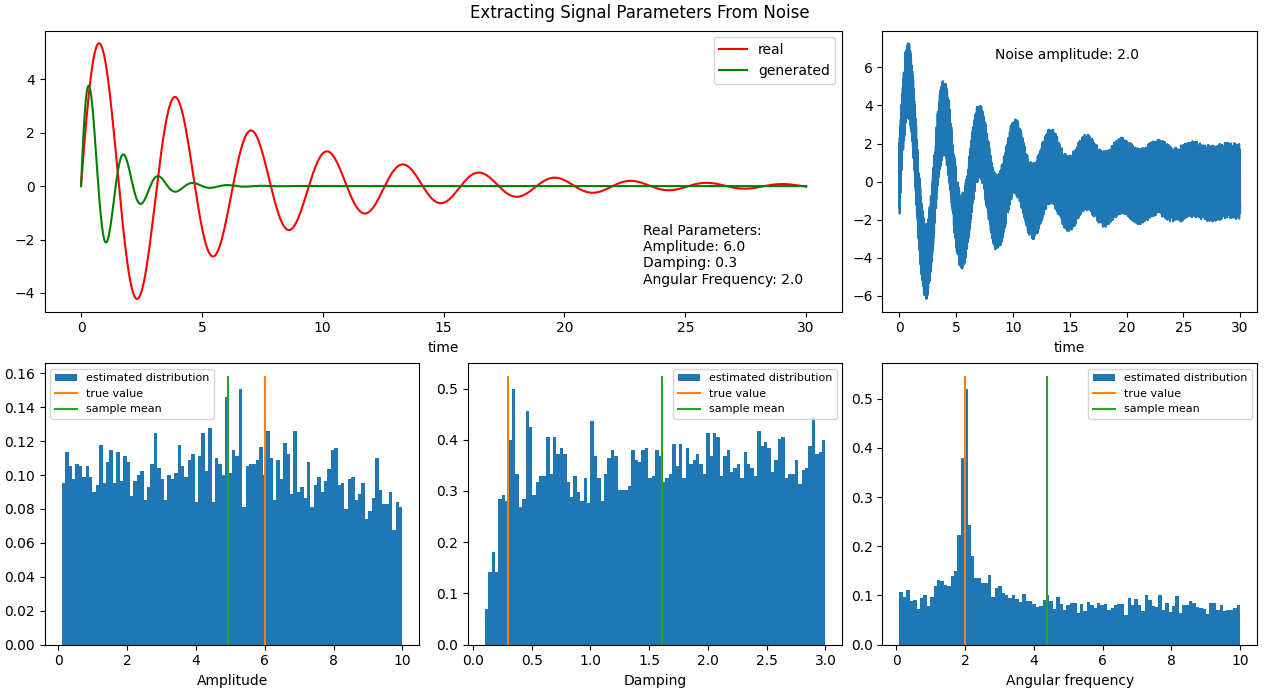
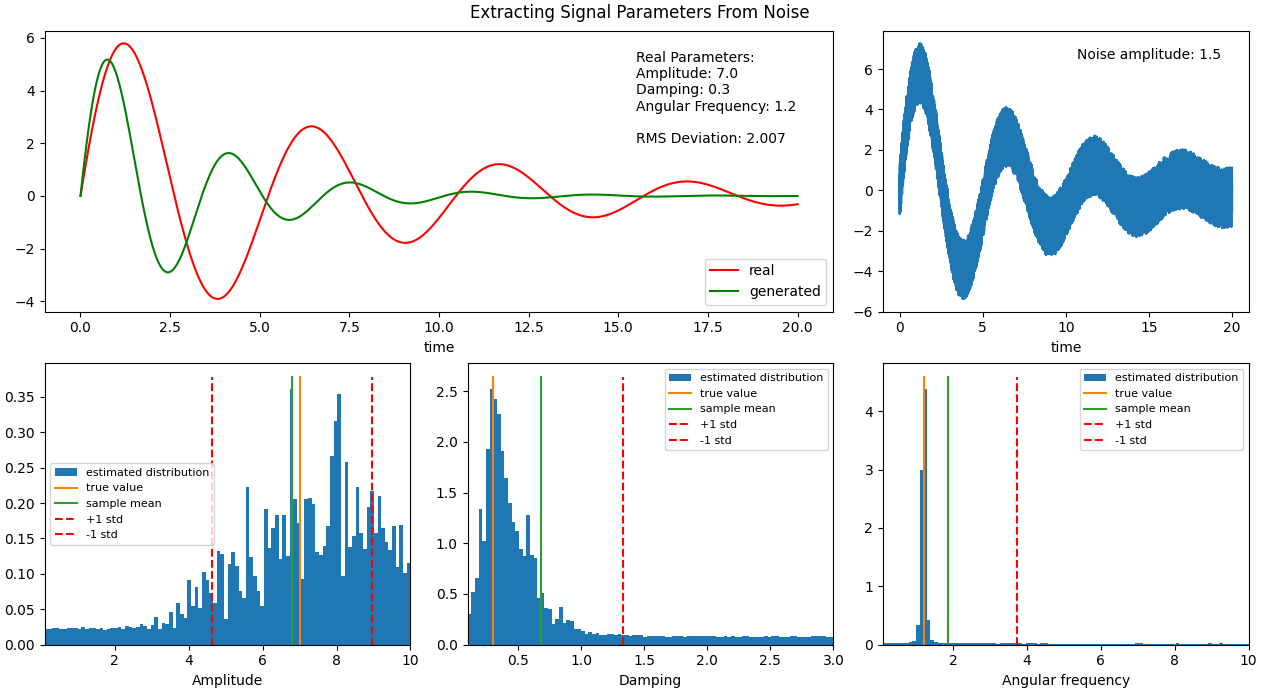
Included RMS Measured, STDs, and plot of Accuracy by Noise

diff --git a/MCMC.py b/MCMC.py
@@ -1,11 +1,12 @@
 import numpy as np
-import functools
+from wave_func import mcmc_wave
 
 class MCMCModel:
     def __init__(self, function, param_ranges: np.ndarray, function_kwargs: dict = None):
         self.function = function
         self.param_ranges = param_ranges
         self.function_kwargs = function_kwargs
+        self.rng = np.random.default_rng(seed=824)
     
     def generate_noise(self, data, noise_amp=1.0):
         """
@@ -18,15 +19,19 @@ class MCMCModel:
         Returns:
         - numpy array of noisy data
         """
-        noise = 2 * noise_amp * np.random.random(size=len(data)) - noise_amp
+        noise = 2 * noise_amp * self.rng.random(size=len(data)) - noise_amp
         return data + noise
 
     def compute_rms(self, observed, predicted):
         diff = observed - predicted
         return np.sqrt(np.mean(diff**2))
 
-    def guess_params(self):
-        return np.random.uniform(low=self.param_ranges[:,0], high=self.param_ranges[:,1], size=len(self.param_ranges))
+    def guess_params(self, distribution=None):
+        if distribution == "norm":
+            mu = (self.param_ranges[:,0] + self.param_ranges[:,1]) / 2
+            sigma = mu/10
+            return self.rng.normal(mu, sigma, size=len(self.param_ranges))
+        return self.rng.uniform(low=self.param_ranges[:,0], high=self.param_ranges[:,1], size=len(self.param_ranges))
         
     def likelihood(self, noisy_vals, params, tol=1e-9):
         trial_vals = eval(self.function.__name__)(*params, **self.function_kwargs)
@@ -41,7 +46,7 @@ class MCMCModel:
 
         current_likelihood = self.likelihood(noisy_vals, current_params)
 
-        samples = np.zeros(shape=(num_iterations, len(self.param_ranges)))
+        samples = np.empty(shape=(num_iterations, len(self.param_ranges)))
         samples[0] = current_params
         
         for i in range(1, num_iterations):
@@ -57,119 +62,37 @@ class MCMCModel:
 
         return samples
     
-    def thin_samples(self, samples, thin_ratio: float = 0.2, cutoff_start: int = 0):
-        cutoff = samples[cutoff_start:]
-        thinned = np.zeros_like(cutoff)
-        i = 0
-        mod = int(1/thin_ratio)
-        for j in range(cutoff.size):
-            if j % mod == 0:
-                thinned[i] = cutoff[j]
-                i += 1
+    def thin_samples(self, samples, thin_percentage: float = 0.25, cutoff_percentage: float = 0.2):
+        if thin_percentage == 0:
+            return np.array([])
+        mod = int(1 / thin_percentage)
+        start = int(samples.size * cutoff_percentage)
+        thinned = np.zeros_like(samples)
+        j = 0
+        for i in range(start, samples.size):
+            if i % mod == 0:
+                thinned[j] = samples[i]
+                j += 1
         return np.trim_zeros(thinned)
     
-if __name__ == "__main__":
-    import matplotlib.pyplot as plt
-    from wave_func import mcmc_wave
-    REAL_AMPLITUDE = 6.0
-    REAL_DAMPING = 0.3
-    REAL_OMEGA = 2.0
-    REAL_PHASE = 0.0
-    NOISE_AMPLITUDE = 4.0
-    NUM_ITERATIONS = 100000
-    DATA_STEPS = 10000
-    THIN_RATIO = 0.1
-    
-    time, real_wave = mcmc_wave(REAL_AMPLITUDE, REAL_DAMPING, REAL_OMEGA, steps=DATA_STEPS, return_time=True)
-    
-    ranges = np.array(
-        [
-            [0.1, 10.0],    # amplitude (A) range
-            [0.1, 3.0],     # damping (b) range
-            [0.1, 10.0],    # angular frequency (omega) range
-            # [0.0, 2*np.pi]  # phase constant range
-        ]
-    )
-    kwargs = {"seconds": 30.0, "steps": DATA_STEPS, "return_time": False}
-
-    model = MCMCModel(function=mcmc_wave, param_ranges=ranges, function_kwargs=kwargs)
-    samples = model.metropolis_hastings(real_wave, NUM_ITERATIONS, NOISE_AMPLITUDE)
-    noise = model.generate_noise(real_wave, noise_amp=NOISE_AMPLITUDE)
-
-    for i, sample in enumerate(samples):
-        current_params = sample
-        acceptance_status = "Accepted"
-        
-        if i > 0:
-            previous_params = samples[i - 1]
+    def print_sample_statuses(self, samples):
+        for i, sample in enumerate(samples):
+            current_params = sample
+            acceptance_status = "Accepted"
             
-            if np.all(current_params == previous_params):
-                acceptance_status = "Rejected (same as previous)"
+            if i > 0:
+                previous_params = samples[i - 1]
+                
+                if np.all(current_params == previous_params):
+                    acceptance_status = "Rejected (same as previous)"
 
-        print(f"Trial {i+1}: ({acceptance_status})\n{current_params}")
+            print(f"Trial {i+1}: ({acceptance_status})\n{current_params}")
     
-    amplitude_samples = samples[:, 0]
-    damping_samples = samples[:, 1]
-    angular_freq_samples = samples[:, 2]
-    # phase_samples = samples[:, 3]
-    
-    amplitude_samples = model.thin_samples(amplitude_samples, thin_ratio=THIN_RATIO, cutoff_start=int(NUM_ITERATIONS/10))
-    damping_samples = model.thin_samples(damping_samples, thin_ratio=THIN_RATIO, cutoff_start=int(NUM_ITERATIONS/10))
-    angular_freq_samples = model.thin_samples(angular_freq_samples, thin_ratio=THIN_RATIO, cutoff_start=int(NUM_ITERATIONS/10))
-    
-    mean_amplitude = np.mean(amplitude_samples)
-    mean_damping = np.mean(damping_samples)
-    mean_omega = np.mean(angular_freq_samples)
-    
-    result_wave = mcmc_wave(mean_amplitude, mean_damping, mean_omega, steps=DATA_STEPS)
 
-    figure = plt.figure(figsize=(13, 7), layout="constrained")
-    figure.suptitle("Extracting Signal Parameters From Noise")
-    axes = figure.subplot_mosaic(
-    """
-    WWN.
-    ABF.
-    """,
-    width_ratios=[1, 1, 1, 0.05]
-    )
+if __name__ == "__main__":
+    model = MCMCModel(function=mcmc_wave, param_ranges=np.arange(3), function_kwargs={"steps":5, "seconds": 12})
+    print(model.likelihood(np.arange(5), [400, 400, 400]))
     
-    axes["A"].hist(amplitude_samples, bins=100, density=True, label="estimated distribution")
-    axes["A"].set_xlabel("Amplitude")
-    ylim = axes["A"].get_ylim()
-    axes["A"].plot([REAL_AMPLITUDE, REAL_AMPLITUDE], [0.0, ylim[1]], label="true value")
-    axes["A"].plot([mean_amplitude, mean_amplitude], [0.0, ylim[1]], label="sample mean")
-    axes["A"].legend(prop={"size": 8})
-    
-    axes["B"].hist(damping_samples, bins=100, density=True, label="estimated distribution")
-    axes["B"].set_xlabel("Damping")
-    ylim = axes["B"].get_ylim()
-    axes["B"].plot([REAL_DAMPING, REAL_DAMPING], [0.0, ylim[1]], label = "true value")
-    axes["B"].plot([mean_damping, mean_damping], [0.0, ylim[1]], label="sample mean")
-    axes["B"].legend(prop={"size": 8})
-    
-    axes["F"].hist(angular_freq_samples, bins=100, density=True, label="estimated distribution")
-    axes["F"].set_xlabel("Angular frequency")
-    ylim = axes["F"].get_ylim()
-    axes["F"].plot([REAL_OMEGA, REAL_OMEGA], [0.0, ylim[1]], label = "true value")
-    axes["F"].plot([mean_omega, mean_omega], [0.0, ylim[1]], label="sample mean")
-    axes["F"].legend(prop={"size": 8})
-    
-    # axes["P"].hist(phase_samples, bins=100, density=True, label="estimated distribution")
-    # axes["P"].set_xlabel("phase constant")
-    # axes["P"].plot([REAL_PHASE, REAL_PHASE], [0.0, 1.0], label = "true value")
-    # axes["P"].legend()
-        
-    axes["W"].plot(time, real_wave, "r", label="real")
-    axes["W"].set_xlabel("time")
-    axes["W"].annotate(f"Real Parameters:\nAmplitude: {REAL_AMPLITUDE}\nDamping: {REAL_DAMPING}\nAngular Frequency: {REAL_OMEGA}", xy=(0.75, 0.1), xycoords="axes fraction")
-    axes["W"].plot(time, result_wave, "g", label="generated")
-    axes["W"].legend()
-    
-    axes["N"].plot(time, noise)
-    axes["N"].set_xlabel("time")
-    axes["N"].annotate(f"Noise amplitude: {NOISE_AMPLITUDE}", xy=(0.3, 0.9), xycoords="axes fraction")
-
-    plt.show()
     
     
     

diff --git a/main.py b/main.py
@@ -1,0 +1,102 @@
+import matplotlib.pyplot as plt
+import numpy as np
+from MCMC import MCMCModel
+from wave_func import mcmc_wave
+
+REAL_AMPLITUDE = 7.0
+REAL_DAMPING = 0.3
+REAL_ANGULAR_FREQ = 1.2
+NOISE_AMPLITUDE = 1.5
+NUM_ITERATIONS = 1000000
+DATA_STEPS = 10000
+TIMESPAN = 20
+THIN_PERCENTAGE = 0.5 # between 0 and 0.5. (0.5 would use half the returned samples, 0 would use none of them, above 0.5 would use all of them)
+CUTOFF_START = 0.5 # percentage of the samples from the beginning that will be skipped
+
+time, real_wave = mcmc_wave(REAL_AMPLITUDE, REAL_DAMPING, REAL_ANGULAR_FREQ, steps=DATA_STEPS, seconds=TIMESPAN, return_time=True)
+
+ranges = np.array(
+    [
+        [0.1, 10.0],    # amplitude (A) range
+        [0.1, 3.0],     # damping (b) range
+        [0.1, 10.0],    # angular frequency (omega) range
+    ]
+)
+kwargs = {"seconds": TIMESPAN, "steps": DATA_STEPS, "return_time": False}
+
+model = MCMCModel(function=mcmc_wave, param_ranges=ranges, function_kwargs=kwargs)
+samples = model.metropolis_hastings(real_wave, NUM_ITERATIONS, NOISE_AMPLITUDE)
+noise = model.generate_noise(real_wave, noise_amp=NOISE_AMPLITUDE)
+
+#model.print_sample_statuses(samples)
+
+amplitude_samples = samples[:, 0]
+damping_samples = samples[:, 1]
+angular_freq_samples = samples[:, 2]
+
+amplitude_samples = model.thin_samples(amplitude_samples, thin_percentage=THIN_PERCENTAGE, cutoff_percentage=CUTOFF_START)
+damping_samples = model.thin_samples(damping_samples, thin_percentage=THIN_PERCENTAGE, cutoff_percentage=CUTOFF_START)
+angular_freq_samples = model.thin_samples(angular_freq_samples, thin_percentage=THIN_PERCENTAGE, cutoff_percentage=CUTOFF_START)
+
+mean_amplitude = np.mean(amplitude_samples)
+mean_damping = np.mean(damping_samples)
+mean_angular_freq = np.mean(angular_freq_samples)
+
+std_amplitude = np.std(amplitude_samples)
+std_damping = np.std(damping_samples)
+std_angular_freq = np.std(angular_freq_samples)
+
+result_wave = mcmc_wave(mean_amplitude, mean_damping, mean_angular_freq, steps=DATA_STEPS, seconds=TIMESPAN)
+figure = plt.figure(figsize=(13, 7), layout="constrained")
+figure.suptitle("Extracting Signal Parameters From Noise")
+axes = figure.subplot_mosaic(
+"""
+WWN.
+ABF.
+""",
+width_ratios=[1, 1, 1, 0.05]
+)
+
+axes["A"].hist(amplitude_samples, bins=100, density=True, label="estimated distribution")
+axes["A"].set_xlabel("Amplitude")
+ylim = axes["A"].get_ylim()
+axes["A"].plot([REAL_AMPLITUDE, REAL_AMPLITUDE], [0.0, ylim[1]], label="true value")
+axes["A"].plot([mean_amplitude, mean_amplitude], [0.0, ylim[1]], label="sample mean")
+axes["A"].plot([mean_amplitude+std_amplitude, mean_amplitude+std_amplitude], [0.0, ylim[1]], "r--", label="+1 std")
+axes["A"].plot([mean_amplitude-std_amplitude, mean_amplitude-std_amplitude], [0.0, ylim[1]], "r--", label="-1 std")
+axes["A"].legend(prop={"size": 8})
+axes["A"].set_xlim(left=ranges[0, 0], right=ranges[0, 1])
+
+
+axes["B"].hist(damping_samples, bins=100, density=True, label="estimated distribution")
+axes["B"].set_xlabel("Damping")
+ylim = axes["B"].get_ylim()
+axes["B"].plot([REAL_DAMPING, REAL_DAMPING], [0.0, ylim[1]], label = "true value")
+axes["B"].plot([mean_damping, mean_damping], [0.0, ylim[1]], label="sample mean")
+axes["B"].plot([mean_damping+std_damping, mean_damping+std_damping], [0.0, ylim[1]], "r--", label="+1 std")
+axes["B"].plot([mean_damping-std_damping, mean_damping-std_damping], [0.0, ylim[1]], "r--", label="-1 std")
+axes["B"].legend(prop={"size": 8})
+axes["B"].set_xlim(left=ranges[1, 0], right=ranges[1, 1])
+
+axes["F"].hist(angular_freq_samples, bins=100, density=True, label="estimated distribution")
+axes["F"].set_xlabel("Angular frequency")
+ylim = axes["F"].get_ylim()
+axes["F"].plot([REAL_ANGULAR_FREQ, REAL_ANGULAR_FREQ], [0.0, ylim[1]], label = "true value")
+axes["F"].plot([mean_angular_freq, mean_angular_freq], [0.0, ylim[1]], label="sample mean")
+axes["F"].plot([mean_angular_freq+std_angular_freq, mean_angular_freq+std_angular_freq], [0.0, ylim[1]], "r--", label="+1 std")
+axes["F"].plot([mean_angular_freq-std_angular_freq, mean_angular_freq-std_angular_freq], [0.0, ylim[1]], "r--", label="-1 std")
+axes["F"].legend(prop={"size": 8})
+axes["F"].set_xlim(left=ranges[2, 0], right=ranges[2, 1])
+    
+axes["W"].plot(time, real_wave, "r", label="real")
+axes["W"].set_xlabel("time")
+rms_deviation = model.compute_rms(real_wave, result_wave)
+axes["W"].annotate(f"Real Parameters:\nAmplitude: {REAL_AMPLITUDE}\nDamping: {REAL_DAMPING}\nAngular Frequency: {REAL_ANGULAR_FREQ}\n\nRMS Deviation: {rms_deviation:.3f}", xy=(0.75, 0.6), xycoords="axes fraction")
+axes["W"].plot(time, result_wave, "g", label="generated")
+axes["W"].legend()
+
+axes["N"].plot(time, noise)
+axes["N"].set_xlabel("time")
+axes["N"].annotate(f"Noise amplitude: {NOISE_AMPLITUDE}", xy=(0.53, 0.9), xycoords="axes fraction")
+
+plt.show()

diff --git a/accuracy.py b/accuracy.py
@@ -1,0 +1,52 @@
+import matplotlib.pyplot as plt
+import numpy as np
+from MCMC import MCMCModel
+from wave_func import mcmc_wave
+
+def run_trial(model, real_amp, real_damp, real_angf, steps, timespan, thin_percentage, cutoff, num_iterations, noise_amplitude):
+    # use given params to make a real wave
+    real_wave = mcmc_wave(real_amp, real_damp, real_angf, seconds=timespan, steps=steps)
+    # run metropolis hastings for the given number of iterations and given noise
+    samples = model.metropolis_hastings(data=real_wave, num_iterations=num_iterations, noise_amplitude=noise_amplitude)
+    # get the mean of the samples returned for each parameter, create the wave generated from them
+    mean_amplitude = np.mean(model.thin_samples(samples[:,0], thin_percentage, cutoff))
+    mean_damping = np.mean(model.thin_samples(samples[:,1], thin_percentage, cutoff))
+    mean_angular_freq = np.mean(model.thin_samples(samples[:,2], thin_percentage, cutoff))
+    generated_wave = mcmc_wave(mean_amplitude, mean_damping, mean_angular_freq, seconds=timespan, steps=steps)
+    # find the rms between the real and generated waves
+    rms = model.compute_rms(observed=real_wave, predicted=generated_wave)
+    return rms
+
+REAL_AMPLITUDE = 7.0
+REAL_DAMPING = 0.3
+REAL_ANGULAR_FREQ = 1.2
+NOISE_AMPLITUDE = np.linspace(0.0, 7.5, 75)
+NUM_ITERATIONS = 10000
+DATA_STEPS = 10000
+TIMESPAN = 20
+THIN_PERCENTAGE = 0.5 # between 0 and 0.5. (0.5 would use half the returned samples, 0 would use none of them, above 0.5 would use all of them)
+CUTOFF_START = 0.5
+
+ranges = np.array(
+    [
+        [0.1, 10.0],    # amplitude (A) range
+        [0.1, 3.0],     # damping (b) range
+        [0.1, 10.0],    # angular frequency (omega) range
+    ]
+)
+kwargs = {"seconds": TIMESPAN, "steps": DATA_STEPS, "return_time": False}
+
+model = MCMCModel(mcmc_wave, param_ranges=ranges, function_kwargs=kwargs)
+
+accuracy_by_noise = []
+for noise in NOISE_AMPLITUDE:
+    rms = run_trial(model, REAL_AMPLITUDE, REAL_DAMPING, REAL_ANGULAR_FREQ, DATA_STEPS, TIMESPAN, THIN_PERCENTAGE, CUTOFF_START, NUM_ITERATIONS, noise)
+    accuracy_by_noise.append(rms)
+figure = plt.figure()
+axes = figure.add_subplot()
+axes.scatter(NOISE_AMPLITUDE, accuracy_by_noise)
+axes.set_xlabel("Noise Amplitude")
+axes.set_ylabel("Accuracy (RMS)")
+figure.suptitle("Wave Estimation Accuracy as a Function of Noise")
+
+plt.show()

diff --git a/wave_func.py b/wave_func.py
@@ -1,7 +1,7 @@
 import numpy as np
 
-# Returns only the displacement, for use by the MCMC class
-def mcmc_wave(amplitude, damping=0.2, angular_freq=1.5, phase=0.0, seconds=30.0, steps=1000, return_time=False):
+# Default returns only the displacement, for use by the MCMC class
+def mcmc_wave(amplitude=6.0, damping=0.2, angular_freq=1.5, phase=0.0, seconds=30.0, steps=1000, return_time=False):
     time = np.linspace(0, seconds, steps)
     displacement = amplitude * np.exp(-1.0 * damping / 2.0 * time) * np.sin((angular_freq * time) + phase)
     if return_time:
